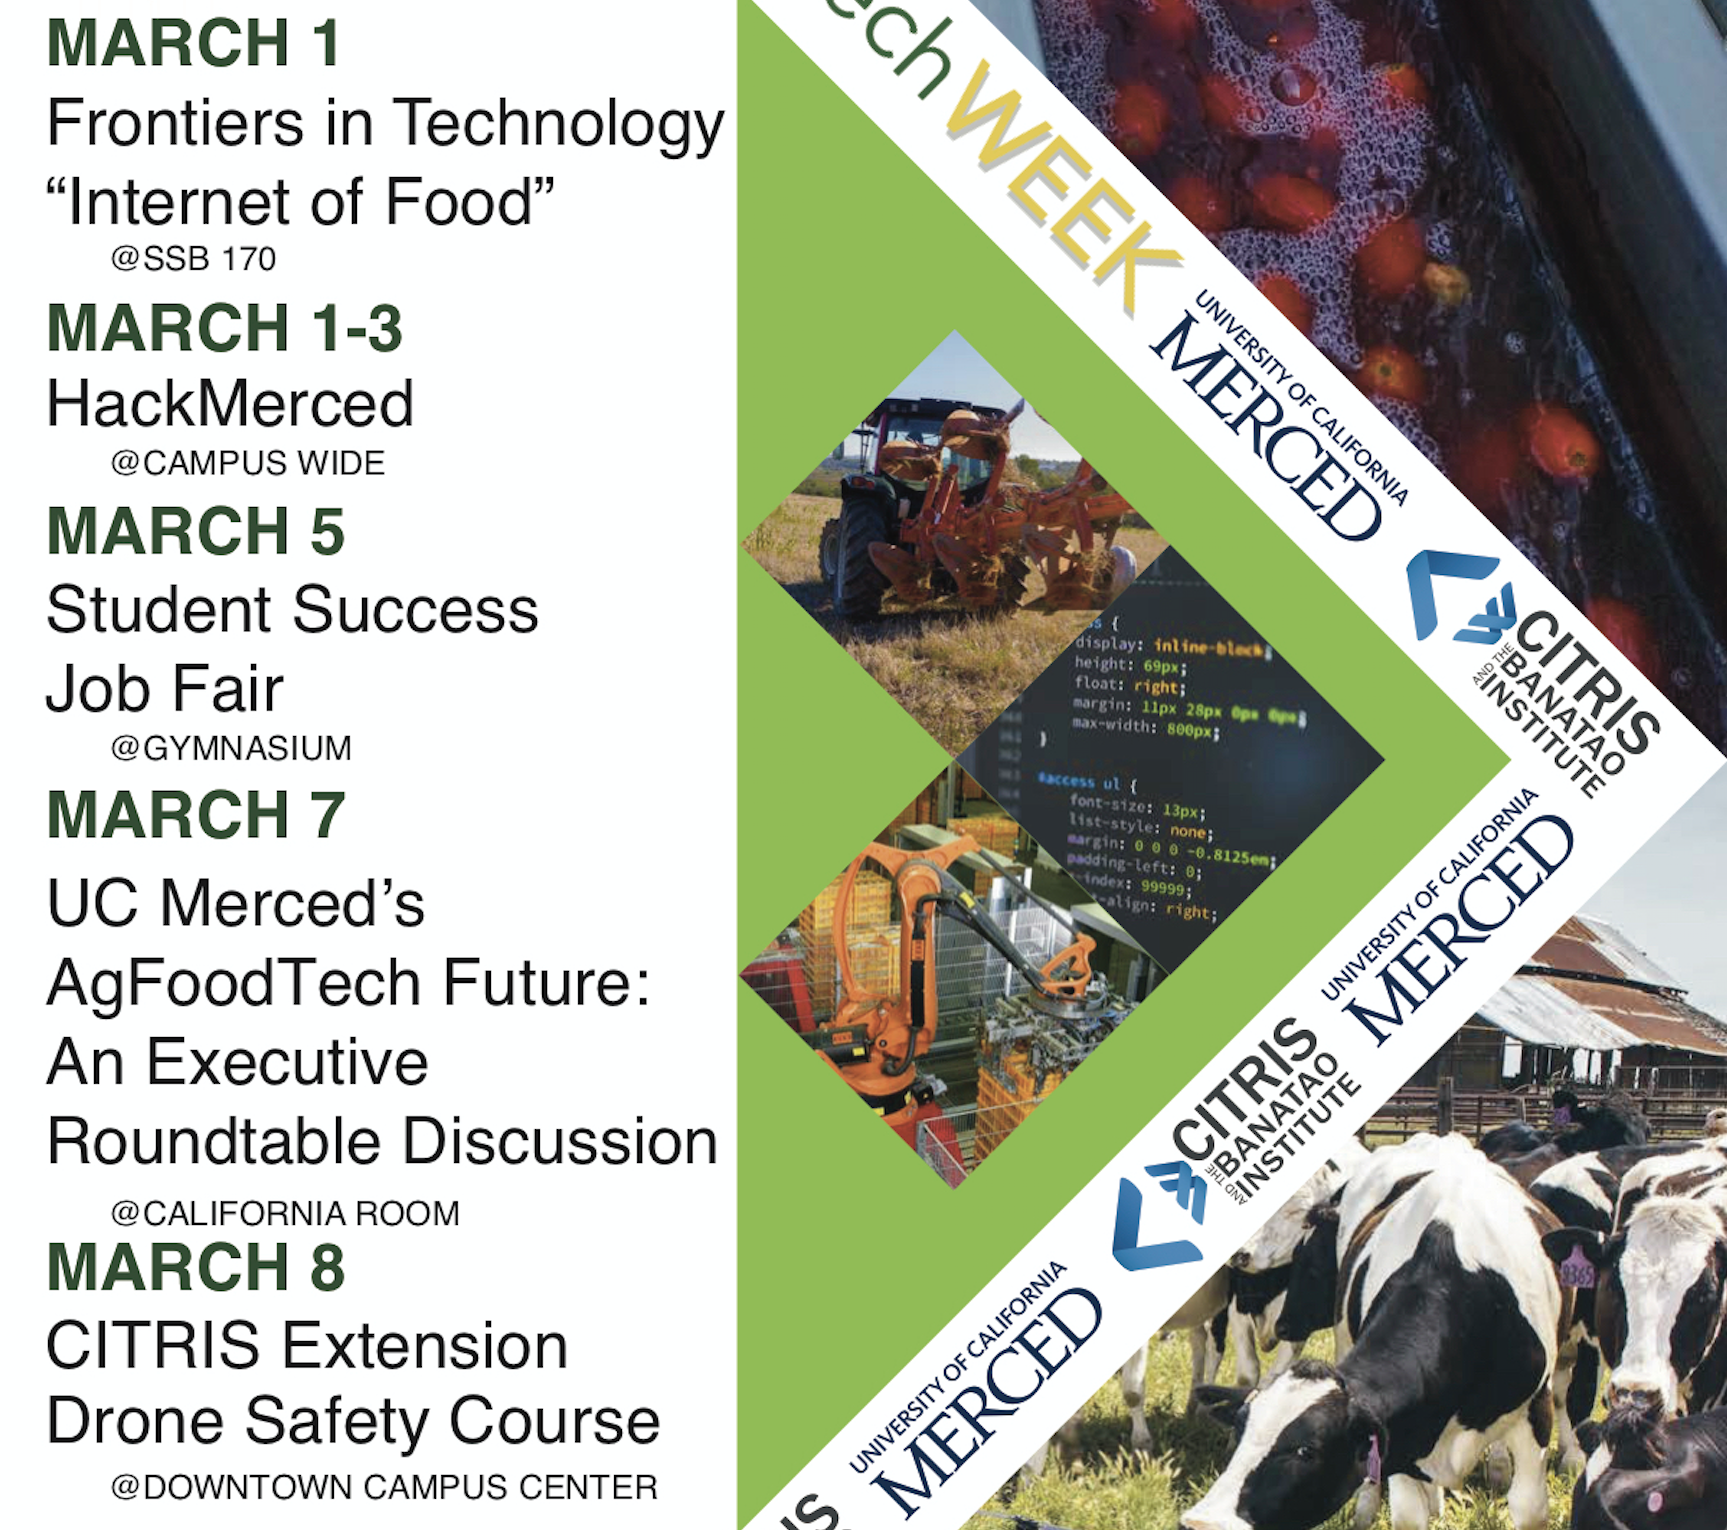
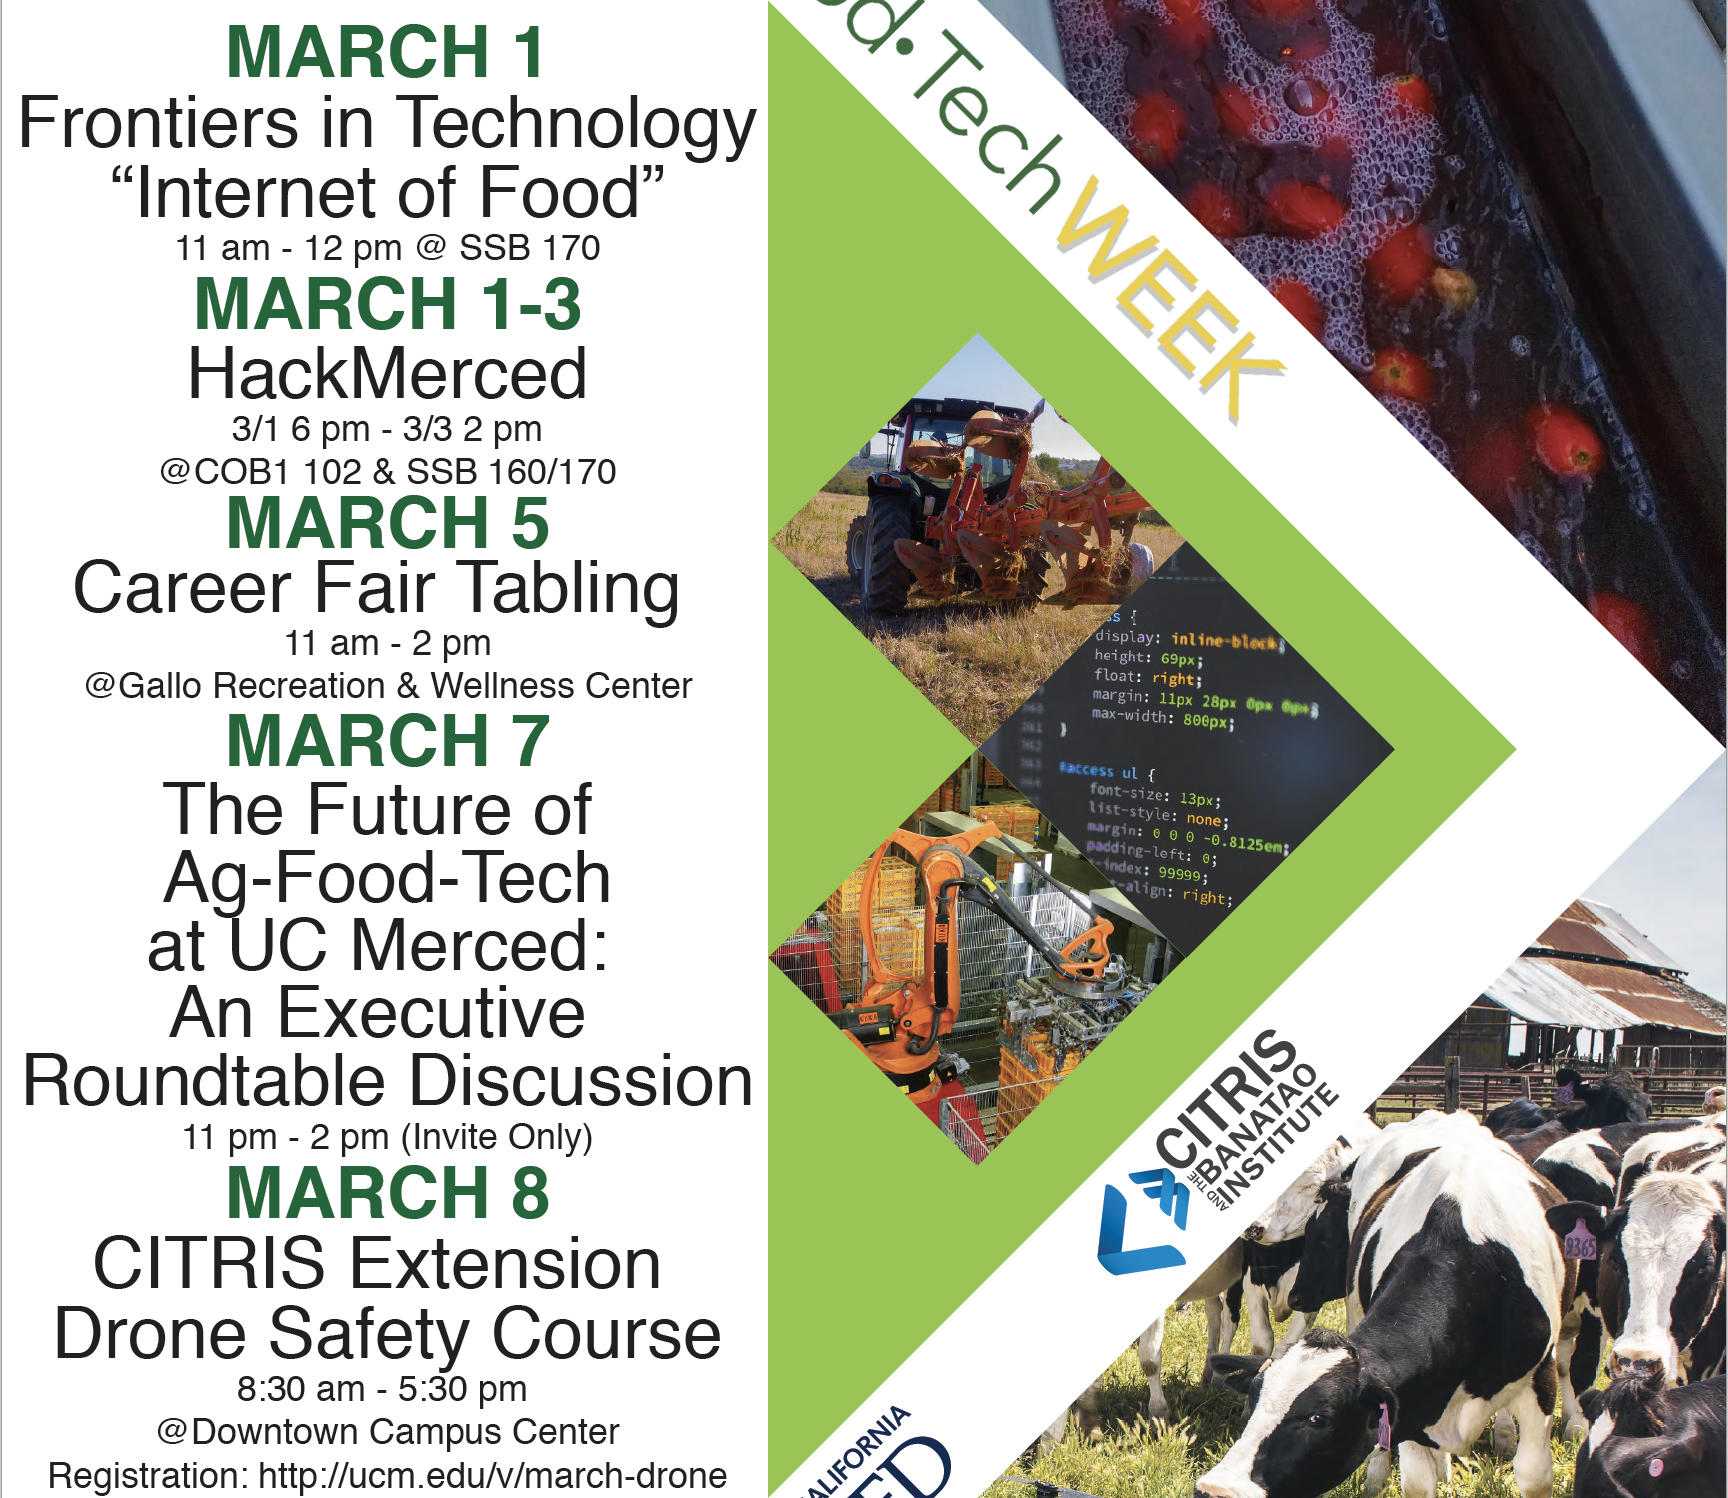
Updated events for AgFoodTech Week and FIT Speaker

diff --git a/snippets/recent-news.html b/snippets/recent-news.html
@@ -30,39 +30,32 @@
                     <!-- Archives -->
                     <ul class="divided">
                         <li>
-                                <article class="box post-summary">
-                                    <h3><a href="#">Congratulations Akeiylah</a></h3>
-                                    <a style="margin-bottom: 1em" href="#" class="image featured"><img src="images/images/akeiylah_dewitt.jpg" alt="" /></a>
-                                    <!-- <p style="margin-bottom: 1em"> We are proud to announce that our beloved Akeiylah DeWitt has recently been accepted to the University of Washington for Human Centered Design and Engineering PhD Program.</p> -->
-                                    <p style="margin-bottom: 1em"> Our beloved Akeiylah DeWitt 
-                                        has recently been accepted to the University of Washington for Human Centered Design and 
-                                        Engineering PhD Program. We're very proud of you!
-                                    </p>
-                                    <ul class="meta">
-                                        <li class="icon fa-clock-o">Jan 12th, 2019</li>
-                                    </ul>
-                                </article>
+                            <article class="box post-summary">
+                                <h3><a href="events">Frontiers In Technology Speaker</a></h3>
+                                <a style="margin-bottom: 1em" href="events" class="image featured"><img src="images/images/CITRIS_FITSpeaker_Cropped.png" alt="" /></a>
+                                <p style="margin-bottom: 1em"> 
+                                    Dr. Lange's talk will be March 1st from 12PM to 1PM in SSB 170.
+                                </p>
+                                <ul class="meta">
+                                    <li class="icon fa-clock-o">Feb 27th, 2019</li>
+                                </ul>
+                            </article>
                         </li>
                         <li>
                             <article class="box post-summary">
-                                <h3><a href="#">Mobile App Challenge Finals</a></h3>
-                                <a style="margin-bottom: 1em" href="#" class="image featured"><img src="images/images/mac.jpg" alt="" /></a>
-                                <p style="margin-bottom: 1em">See the teams who competed this year at Innovate to Grow, and who took home the $4,000 grand prize!</p>
+                                <h3><a href="#">Congratulations Akeiylah</a></h3>
+                                <a style="margin-bottom: 1em" class="image featured"><img src="images/images/akeiylah_dewitt.jpg" alt="" /></a>
+                                <p style="margin-bottom: 1em"> Our beloved Akeiylah DeWitt 
+                                    has recently been accepted to the University of Washington for Human Centered Design and 
+                                    Engineering PhD Program. We're very proud of you!
+                                </p>
                                 <ul class="meta">
-                                    <li class="icon fa-clock-o">May 10th, 2018</li>
+                                    <li class="icon fa-clock-o">Jan 12th, 2019</li>
                                 </ul>
                             </article>
                         </li>
-                        <!-- <li>
-                            <article class="box post-summary">
-                                <h3><a href="#">Robots to Help California's Grape Growers Conserve Water</a></h3>
-                                <ul class="meta">
-                                    <li class="icon fa-clock-o">April 2018</li>
-                                </ul>
-                            </article>
-                        </li> -->
+                        
                     </ul>
-                    <!-- <a href="#" class="button alt">Browse Archives</a> -->
                 </div>
             </div>
         </div>

diff --git a/upcoming-events/ag-tech-2019.html b/upcoming-events/ag-tech-2019.html
@@ -3,7 +3,6 @@
   <header>
     <h2>AgFoodTech Week</h2>
   </header>
-
   <img class="image featured" src="images/events/agfoodtechweek.png" alt="" />
   <p>
     AgFoodTech Week aims to promote the awareness of current technologies within 

diff --git a/upcoming-events/FITSpeaker_2019.html b/upcoming-events/FITSpeaker_2019.html
@@ -1,0 +1,7 @@
+<!-- News Article -->
+<section class="box features">
+  <header>
+    <h2>Frontiers In Technology Speaker</h2>
+  </header>
+  <img class="image featured" src="images/events/CITRIS_FITSpeaker.png" alt="" />
+</section>
